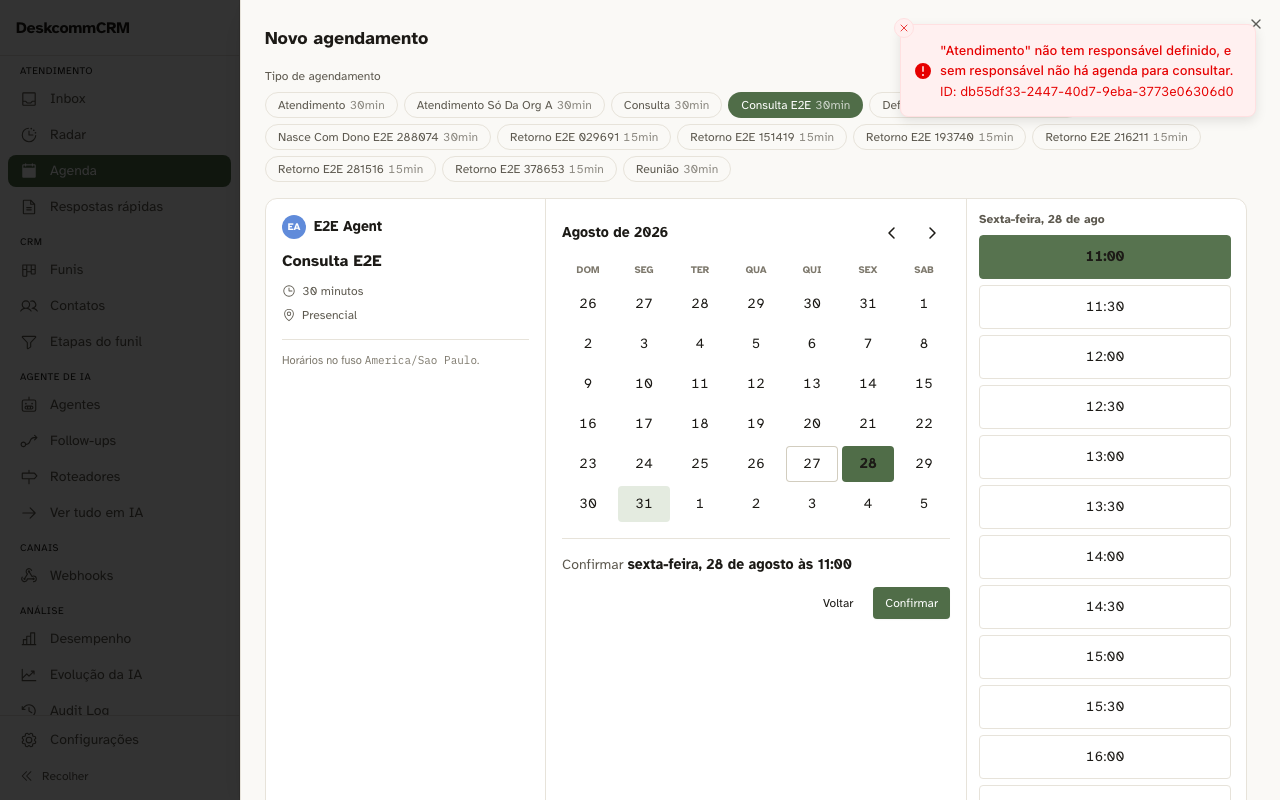
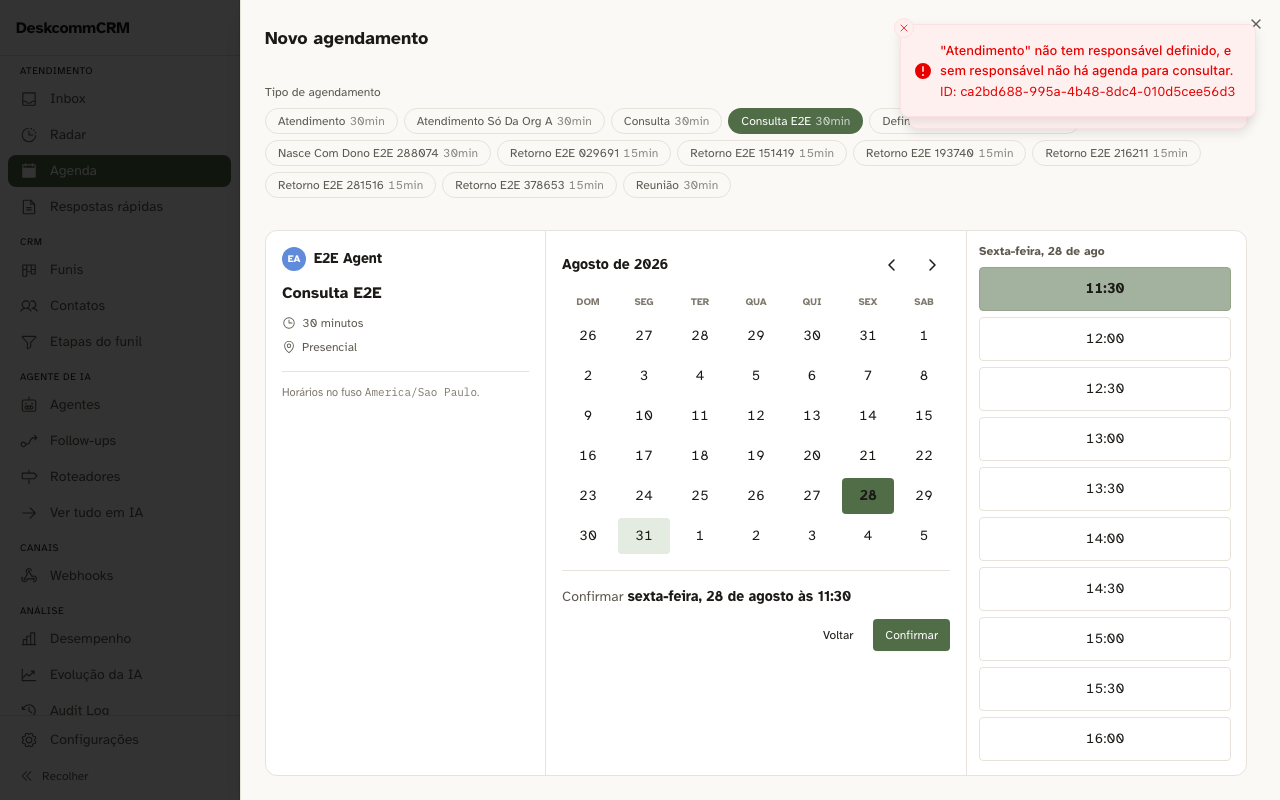
fix(agenda): a lista de horários rola — o overflow existia e era inerte
O que o dono do produto via: abre "Novo agendamento", escolhe o dia, e os
últimos horários ficam abaixo da dobra sem nenhum jeito de alcançá-los. Nem a
lista rolava, nem a página.

  A CAUSA, E ELA É SUTIL

O `overflow-y-auto` EXISTE, está no elemento certo, e é INERTE: um
`overflow-y-auto` cujo pai tem altura `auto` não rola — o filho cresce e leva a
caixa junto, então `scrollHeight === clientHeight`. Medido, sem o conserto:

    lista: 644px de conteúdo em 644px de caixa

Nenhum elo entre o Sheet e a lista definia altura: o `SheetContent` tinha só
largura, o wrapper era um `div` de altura automática, e o painel tinha
`min-h-[450px]` — piso, nunca teto.

E a página também não rolava: o Sheet é `position: fixed`, e transbordo de
elemento fixo não estende a área rolável do documento. Não havia ancestral
rolável entre o último botão e a janela.

  O CONSERTO: TRÊS LINHAS, TODAS NO `_client`

Zero mudança de comportamento no componente compartilhado, o que protege a
vitrine, onde o mesmo painel vive em fluxo de página e não tem defeito. Depois:

    lista: 644px de conteúdo em 396px de caixa  → rola

Abaixo de `lg` o próprio Sheet rola (ali o painel empilha). De `lg` para cima a
cadeia fecha e a LISTA rola, com calendário e contexto parados. O
`lg:overflow-hidden` não é preciosismo: em `lg` sobram 12px entre a caixa do
Sheet e o painel, e uma barra vertical os come — como o CSS computa `overflow-x:
visible` como `auto` quando `overflow-y` não é `visible`, nasceria barra
[…]

diff --git a/tests/e2e/agenda-painel-cabe-na-tela.spec.ts b/tests/e2e/agenda-painel-cabe-na-tela.spec.ts
@@ -200,6 +200,110 @@ for (const viewport of [
   });
 }
 
+test("a lista de horários ROLA, e o último horário é alcançável — 1280×700", async ({ page }) => {
+  /**
+   * O EIXO Y, que esta spec não media.
+   *
+   * As três réguas acima são todas de largura (`x`, `width`). O dono do produto
+   * encontrou o defeito no outro eixo: escolhe o dia, e os últimos horários
+   * ficam abaixo da dobra sem nenhum jeito de alcançá-los.
+   *
+   * A causa é sutil e por isso escapou: o `overflow-y-auto` EXISTE, está no
+   * elemento certo, e é INERTE. Um `overflow-y-auto` cujo pai tem altura `auto`
+   * não rola — o filho cresce e `scrollHeight === clientHeight`. E a página
+   * também não rola, porque o Sheet é `position: fixed` e transbordo de elemento
+   * fixo não estende a área rolável do documento.
+   *
+   * Viewport 700px de altura de propósito: é onde a lista estoura com a
+   * quantidade de horários que o seed produz.
+   */
+  await page.setViewportSize({ width: 1280, height: 700 });
+  const creds = lerCreds();
+  await entrar(page, creds);
+  await abrirPainelComDiaEscolhido(page, creds.agenda!.tipo_nome);
+
+  const lista = page.getByTestId("lista-de-horarios");
+  await expect(lista).toBeVisible({ timeout: 15_000 });
+  const horarios = page.locator('[data-testid^="horario-"]');
+  const n = await horarios.count();
+
+  // ── PRÉ-CONDIÇÃO DE SUFICIÊNCIA ──────────────────────────────────────────
+  // Sem isto o caso fica VERDE POR VACUIDADE no dia em que o seed produzir
+  // poucos slots: uma lista que cabe na tela não precisa rolar, e "não rolou"
+  // passaria a ser lido como "está consertado".
+  //
+  // ⚠ A RÉGUA É O ESPAÇO QUE SOBRA PARA A LISTA, e não a altura da janela — e
+  // eu escrevi errado da primeira vez. Comparar `n * 50` com os 700px da
+  // viewport reprovou um cenário SUFICIENTE (13 horários = 650px numa caixa de
+  // ~450px transbordam com folga), porque acima da lista ainda há o cabeçalho do
+  // Sheet, o título e o padding. O que decide é onde a lista COMEÇA.
+  //
+  // 50px por item = 44 do `h-11` + 6 do `gap-1.5`.
+  const topoDaLista = (await lista.boundingBox())?.y ?? 0;
+  const alturaDaJanela = page.viewportSize()?.height ?? 0;
+  const espacoQueSobra = alturaDaJanela - topoDaLista;
+  expect(
+    n * 50,
+    `${n} horários ocupam ${n * 50}px e sobram ${Math.round(espacoQueSobra)}px de tela ` +
+      "abaixo do topo da lista — ela cabe inteira, e este caso não exercita rolagem " +
+      "nenhuma. Sem mais slots no seed, o verde aqui não seria evidência.",
+  ).toBeGreaterThan(espacoQueSobra);
+
+  // ── RÉGUA 4: o mecanismo ─────────────────────────────────────────────────
+  const medida = await lista.evaluate((el) => ({
+    scroll: el.scrollHeight,
+    cliente: el.clientHeight,
+  }));
+  expect(
+    medida.scroll,
+    `a lista tem ${medida.scroll}px de conteúdo em ${medida.cliente}px de caixa iguais — ` +
+      "ela não rola. O `overflow-y-auto` está lá e é inerte porque nenhum ancestral " +
+      "define altura: o filho cresce e leva a caixa junto.",
+  ).toBeGreaterThan(medida.cliente);
+
+  // ── RÉGUA 5: o desfecho, na língua de quem usa ───────────────────────────
+  const ultimo = horarios.last();
+  await ultimo.scrollIntoViewIfNeeded();
+  await expect(
+    ultimo,
+    "o último horário não entra na tela nem depois de rolar — é o que o dono viu",
+  ).toBeInViewport();
+  await ultimo.click();
+  await expect(
+    page.getByTestId("confirmacao"),
+    "cliquei no último horário e o painel não avançou",
+  ).toBeVisible({ timeout: 15_000 });
+
+  // ── RÉGUA 6: anti-regressão, e ela NÃO é a que o briefing propôs ─────────
+  //
+  // A proposta era `document.body.scrollHeight - window.innerHeight <= 1`, com a
+  // nota "já passa hoje". **MEDIDO: não passa, e não é culpa do conserto.**
+  // Com o painel aberto nesta viewport, o body vai a 1566px contra 700 de
+  // janela — e o número é IDÊNTICO com e sem a cadeia de alturas:
+  //
+  //     COM o conserto:  body 1566 | lista 644 de conteúdo em 396 de caixa
+  //     SEM o conserto:  body 1566 | lista 644 de conteúdo em 644 de caixa
+  //
+  // O crescimento da página é PRÉ-EXISTENTE e independente disto. Asserir sobre
+  // ele reprovaria um conserto correto por uma dívida que já estava lá — e foi o
+  // que aconteceu na primeira execução, com o conserto no lugar.
+  //
+  // A propriedade que a régua QUERIA proteger é outra e se mede direto: que o
+  // conserto não veio tirando o `position: fixed` do Sheet, que é o que o
+  // tornaria um painel comum e faria a página crescer de verdade.
+  const posicaoDoSheet = await page
+    .locator('[role="dialog"]')
+    .first()
+    .evaluate((el) => getComputedStyle(el).position);
+  expect(
+    posicaoDoSheet,
+    "o Sheet deixou de ser `fixed` — a rolagem pode até parecer resolvida, mas o " +
+      "painel virou conteúdo de página em vez de sobreposição",
+  ).toBe("fixed");
+
+  await page.screenshot({ path: "evidence/calendario/d4-lista-rola-1280x700.png", fullPage: false });
+});
+
 test("dá para CLICAR num horário — o teste final é a ação, não a medida", async ({ page }) => {
   // A geometria acima é o diagnóstico; isto é o desfecho. Um horário pode estar
   // dentro do painel e ainda assim ser inalcançável (coberto por outra camada,

diff --git a/app/app/agenda/_client.tsx b/app/app/agenda/_client.tsx
@@ -396,7 +396,31 @@ export function AgendaClient({
           empilha os horários sob o calendário, então 768px bastam e um Sheet
           maior só roubaria contexto da tela atrás.
         */}
-        <SheetContent side="right" className="w-full sm:max-w-3xl lg:max-w-[1040px]">
+        {/*
+          A CADEIA DE ALTURAS, e ela é o que faz a lista de horários rolar.
+          
+          O `overflow-y-auto` da lista (`PainelDeMarcacao`) sempre esteve no
+          elemento certo e era INERTE: `overflow-y-auto` cujo pai tem altura
+          `auto` não rola — o filho cresce, `scrollHeight === clientHeight`, e os
+          últimos horários ficavam abaixo da dobra sem nenhum jeito de alcançá-los.
+          E a página também não rolava: o `SheetContent` é `position: fixed`, e
+          transbordo de elemento fixo não estende a área rolável do documento.
+          
+          Abaixo de `lg` o próprio Sheet rola (ali o painel empilha e a lista é
+          uma seção, não uma coluna). De `lg` para cima o Sheet segura a altura e
+          a LISTA rola, com calendário e contexto parados.
+          
+          ⚠ `lg:overflow-hidden` e não `overflow-y-auto` em todo breakpoint: em
+          `lg` o Sheet tem 1040px com `p-6` → 992px de caixa contra ~980px de
+          painel. Uma barra vertical come essa folga, e como o CSS computa
+          `overflow-x: visible` como `auto` quando `overflow-y` não é `visible`,
+          nasceria barra HORIZONTAL exatamente no breakpoint que o conserto de
+          largura acabou de reparar.
+        */}
+        <SheetContent
+          side="right"
+          className="flex w-full flex-col overflow-y-auto sm:max-w-3xl lg:max-w-[1040px] lg:overflow-hidden"
+        >
           <SheetHeader>
             <SheetTitle>{remarcandoId ? "Remarcar agendamento" : "Novo agendamento"}</SheetTitle>
           </SheetHeader>
@@ -426,8 +450,9 @@ export function AgendaClient({
             </div>
           )}
           {tipo && (
-            <div className="mt-4">
+            <div className="mt-4 lg:min-h-0 lg:flex-1">
               <PainelDeMarcacao
+                className="lg:h-full"
                 ancora={new Date()}
                 agora={new Date()}
                 responsavel={

diff --git a/components/agenda/PainelDeMarcacao.tsx b/components/agenda/PainelDeMarcacao.tsx
@@ -332,7 +332,11 @@ export function PainelDeMarcacao({
         // colunas cabem com folga. Abaixo disso o painel EMPILHA — os horários
         // viram uma seção sob o calendário, que é o que o cal.com faz e o que
         // esta base já fazia no celular.
-        "flex min-h-[450px] flex-col overflow-hidden rounded-lg border border-border bg-surface lg:w-fit lg:flex-row",
+        // `lg:min-h-0` junto do piso: em janela larga e BAIXA (menos de ~560px
+        // de altura) um `min-h-[450px]` sem teto estoura o Sheet e o
+        // `overflow-hidden` corta em silêncio — o mesmo modo de falha que este
+        // painel já teve na horizontal.
+        "flex min-h-[450px] flex-col overflow-hidden rounded-lg border border-border bg-surface lg:min-h-0 lg:w-fit lg:flex-row",
         className,
       )}
     >
@@ -636,7 +640,17 @@ export function PainelDeMarcacao({
           <p className="mb-2 shrink-0 text-xs font-semibold text-text-muted first-letter:uppercase">
             {dia ? format(dia, "EEEE, d 'de' MMM", { locale: ptBR }) : ""}
           </p>
-          <div className="flex min-h-0 flex-1 flex-col gap-1.5 overflow-y-auto pr-1">
+          {/*
+            `data-testid` para a lista poder ser MEDIDA, e não só vista. O
+            `overflow-y-auto` aqui sempre esteve certo e era INERTE: um
+            `overflow-y-auto` cujo pai tem altura `auto` não rola, porque o filho
+            cresce e `scrollHeight === clientHeight`. Quem fecha a cadeia é o
+            `_client.tsx`, que dá teto ao Sheet.
+          */}
+          <div
+            data-testid="lista-de-horarios"
+            className="flex min-h-0 flex-1 flex-col gap-1.5 overflow-y-auto pr-1"
+          >
             {doDia.map((h) => (
               <button
                 key={h.instante}

diff --git a/.changes/a-lista-de-horarios-rola.md b/.changes/a-lista-de-horarios-rola.md
@@ -1,0 +1,11 @@
+---
+impacto: nada_mudou
+secao: corrigido
+titulo: A lista de horários volta a rolar ao marcar um compromisso
+---
+
+Ao escolher o dia, os últimos horários ficavam abaixo da borda da tela sem
+nenhuma forma de alcançá-los — nem rolando a página, nem a própria lista. Quem
+precisava de um horário do fim da tarde não conseguia marcar. Agora a lista rola
+sozinha, com o calendário e os dados do atendimento parados ao lado, e em telas
+menores o painel inteiro rola.
